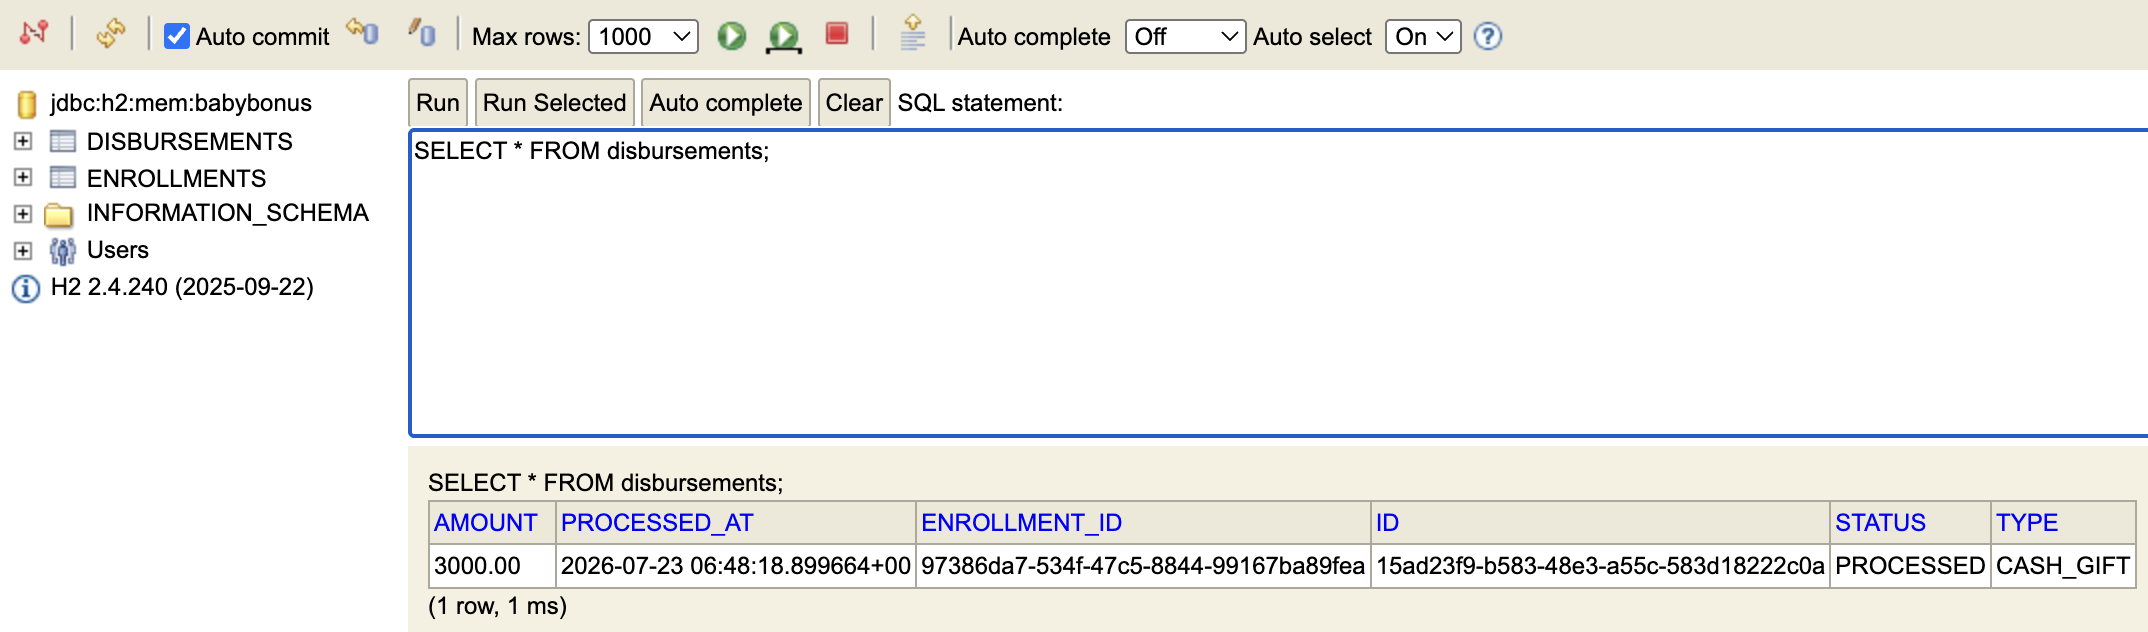
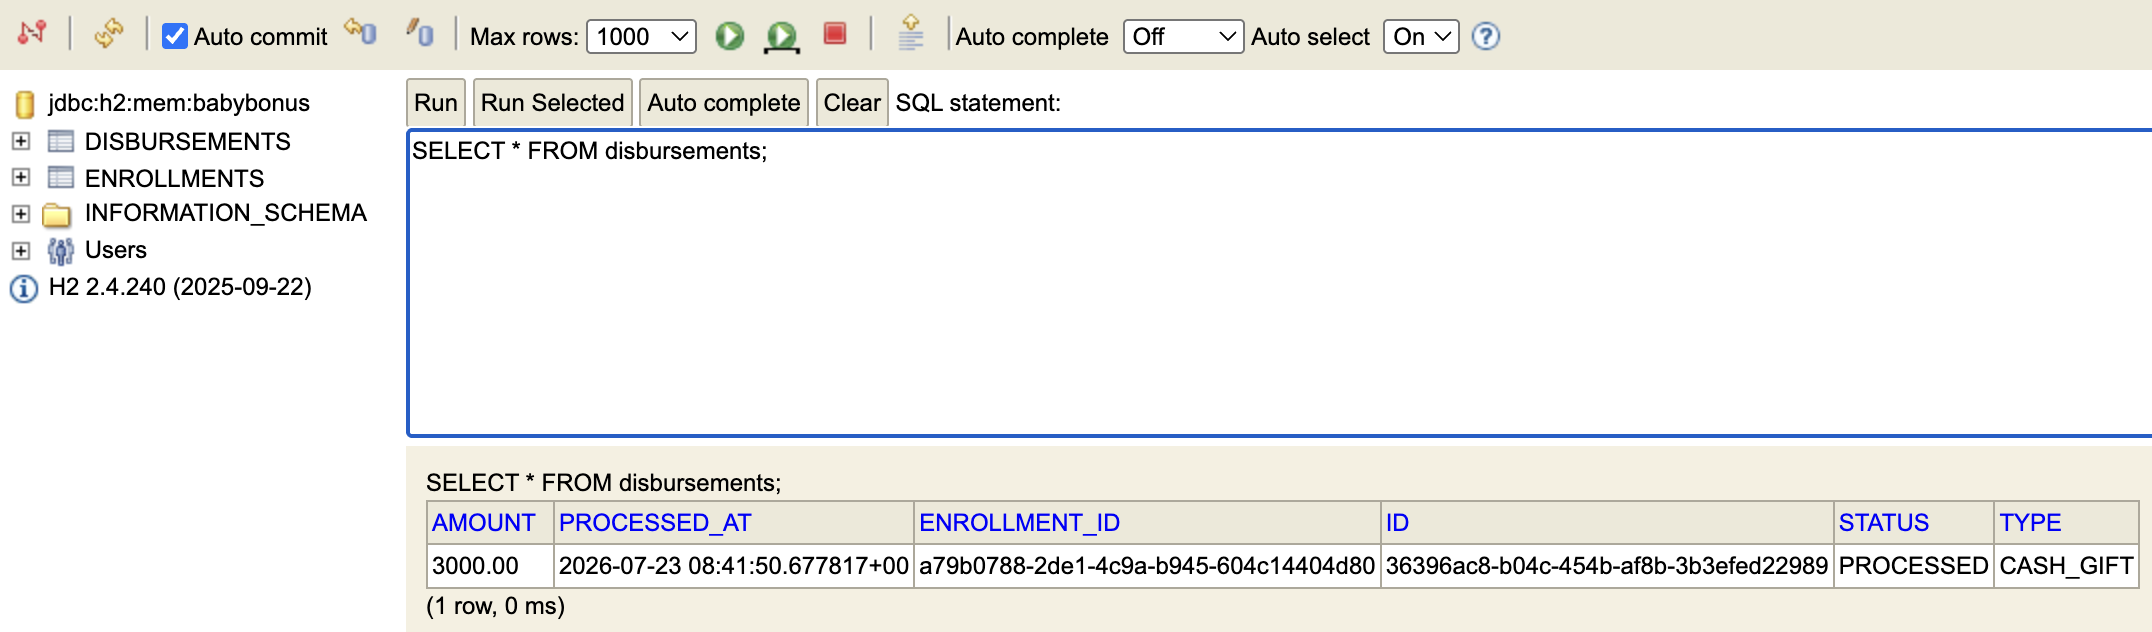
doc: add 2 more sql query examples on how to retrieve data for a given enrollment

diff --git a/README.md b/README.md
@@ -237,9 +237,21 @@ __SQL query for all enrollments in the enrollments table__
 
 <img src="./images/query_for_enrollments.png" width="1000" alt="query_for_enrollments image">
 
+
 __SQL query for all disbursements in the disbursements table__
 
 <img src="./images/query_for_disbursements.png" width="1000" alt="query_for_disbursements image">
+
+
+__SQL query for an enrollment by its `id` in the enrollments table__
+
+<img src="./images/query_enrollments_by_id.png" width="1000" alt="query_enrollments_by_id image">
+
+
+__SQL query for all disbursements belonging to an enrollment by the `enrollment_id` in the disbursements table__
+
+<img src="./images/query_disbursements_by_enrollment_id.png" width="1000" alt="query_disbursements_by_enrollment_id image">
+
 
 8. Verify that the enrollment created for an ELIGIBLE child has the corresponding disbursement row created. 
 Likewise, the enrollment created for an INELIGIBLE child should not have any disbursement row created for them
@@ -264,7 +276,7 @@ set -a; source .env; set +a
 ./gradlew bootRun
 ```
 
-3. Now, in the h2-console login window, you should be able to log in with your new credentials.
+3. Now, in the h2-console login window, you should be able to log in with your new credentials
 
 ---
 
